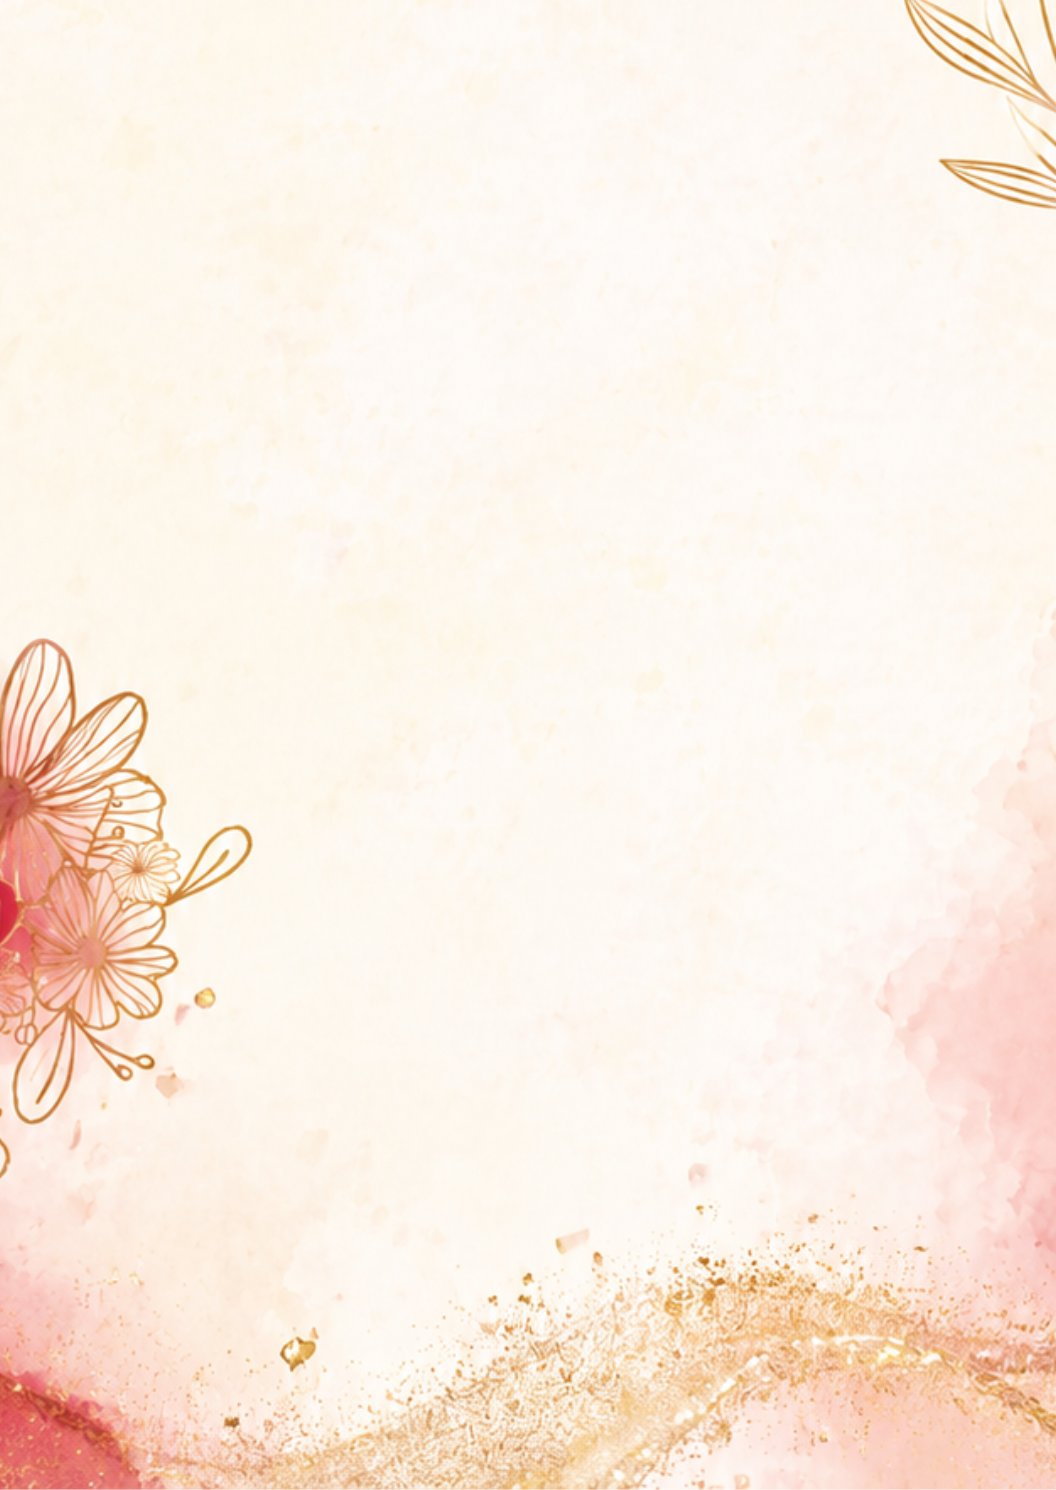
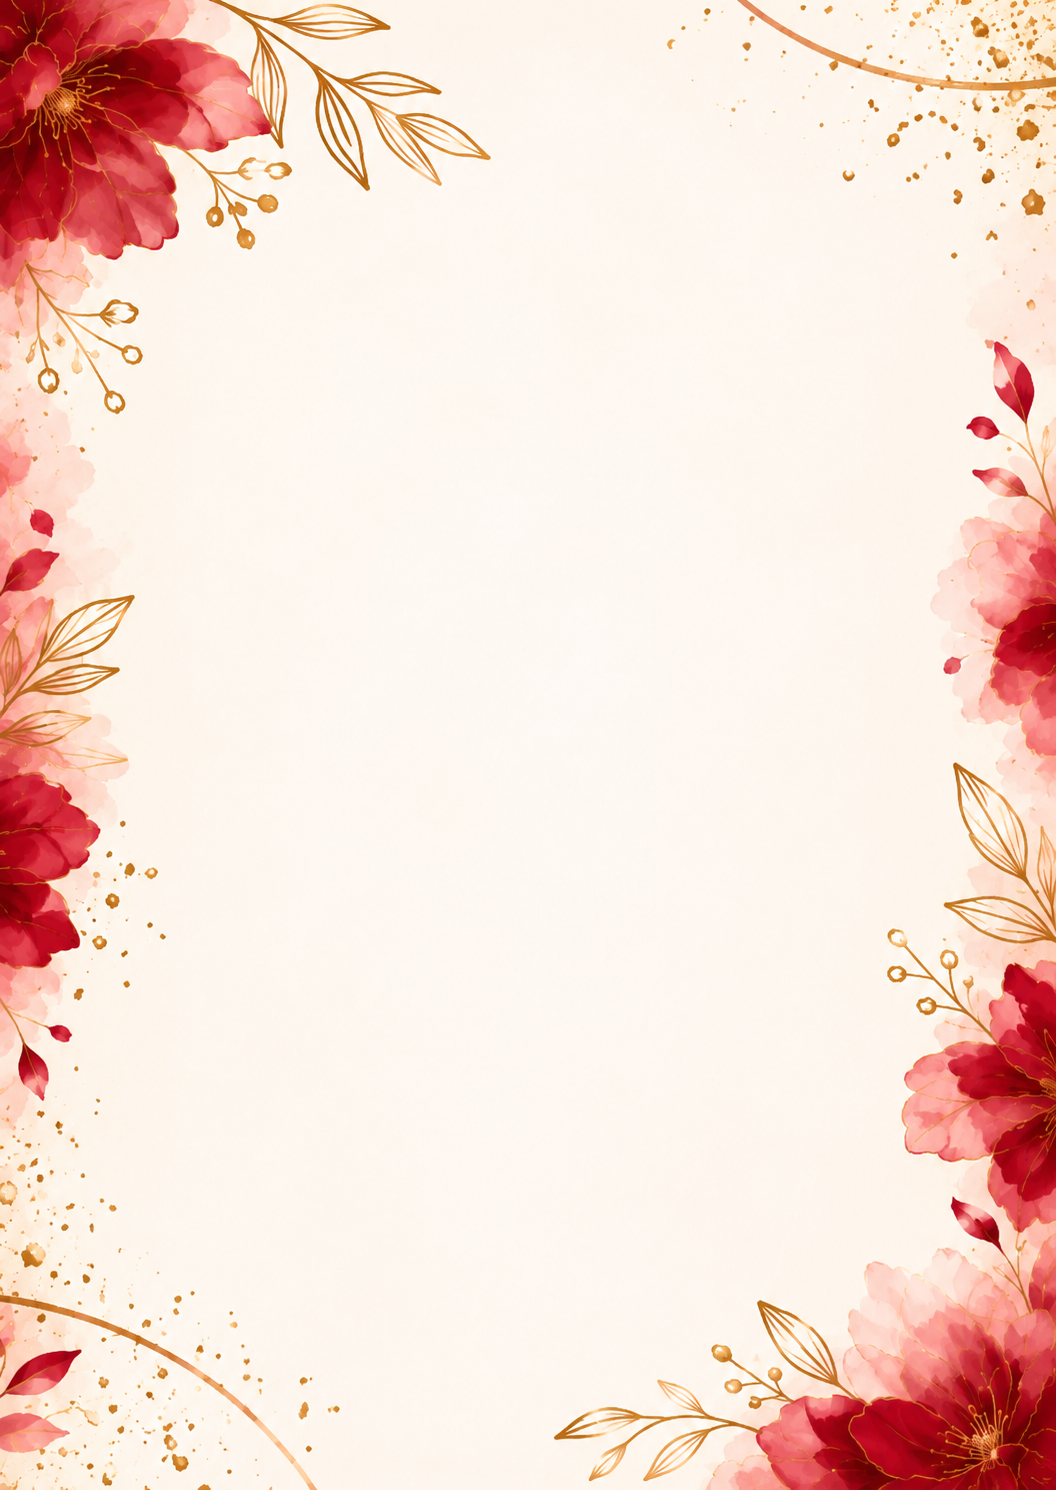
Add files via upload

Changed region(s): [[0.0, 0.0, 1.0, 1.0], [0.6875, 0.0, 0.7812, 0.0309]]

diff --git a/xv_1_pase.html b/xv_1_pase.html
@@ -996,7 +996,7 @@
                                 <div class="elementor-widget-container">
                                     <h2 class="elementor-heading-title elementor-size-default" style="font-family: 'Times New Roman', Times, serif; color: #a61910;">
                                         Salon De Eventos Monarca <br>
-                                        Cto. Laguna de Mayran, Montebello, 27277 Torreón, Coah.
+                                        Laguna de Mayran 168, col. Rincón del Bosque.
                                     </h2>
                                 </div>
                             </div>
@@ -1225,8 +1225,8 @@ style="background-image: url('/vestimenta.png'); background-size: cover; backgro
                             </div>
                             <div class="elementor-element elementor-element-8ad0a29 elementor-widget elementor-widget-heading" data-id="8ad0a29" data-element_type="widget" data-widget_type="heading.default">
                                 <div class="elementor-widget-container">
-                                    <h2 class="elementor-heading-title elementor-size-default" style="font-family: 'Times New Roman', Times, serif;  color: #505050;">
-                                     Agradecemos amablemente evitar prendas en tonos dorados y rojos, reservando estos colores para la celebración.
+                                    <h2 class="elementor-heading-title elementor-size-default" style="font-family: 'Times New Roman', Times, serif;  color: #000000;">
+                                     Agradecemos amablemente evitar <br> prendas en tonos dorados y rojos,<br> reservando estos colores <br> para la celebración.
                                     </h2>
                                 </div>
                             </div>
@@ -1890,7 +1890,7 @@ style="background-image: url('/vestimenta.png'); background-size: cover; backgro
                             </div>
                             <div class="signature-section">
                                 <h3 class="signature-label">Con cariño:</h3>
-                                <h2 class="signature-name" style="color: #a61910;" font-size="180px">Regina </h2>
+                                <h2 class="signature-name" style="color: #a61910;" font-size="180px">Regina G. Campos Rojas </h2>
                             </div>
                             <div class="footer">
                                 <p>© 2024 Hugo Jauregui by Invitaciones Web - ALL RIGHTS RESERVED</p>
